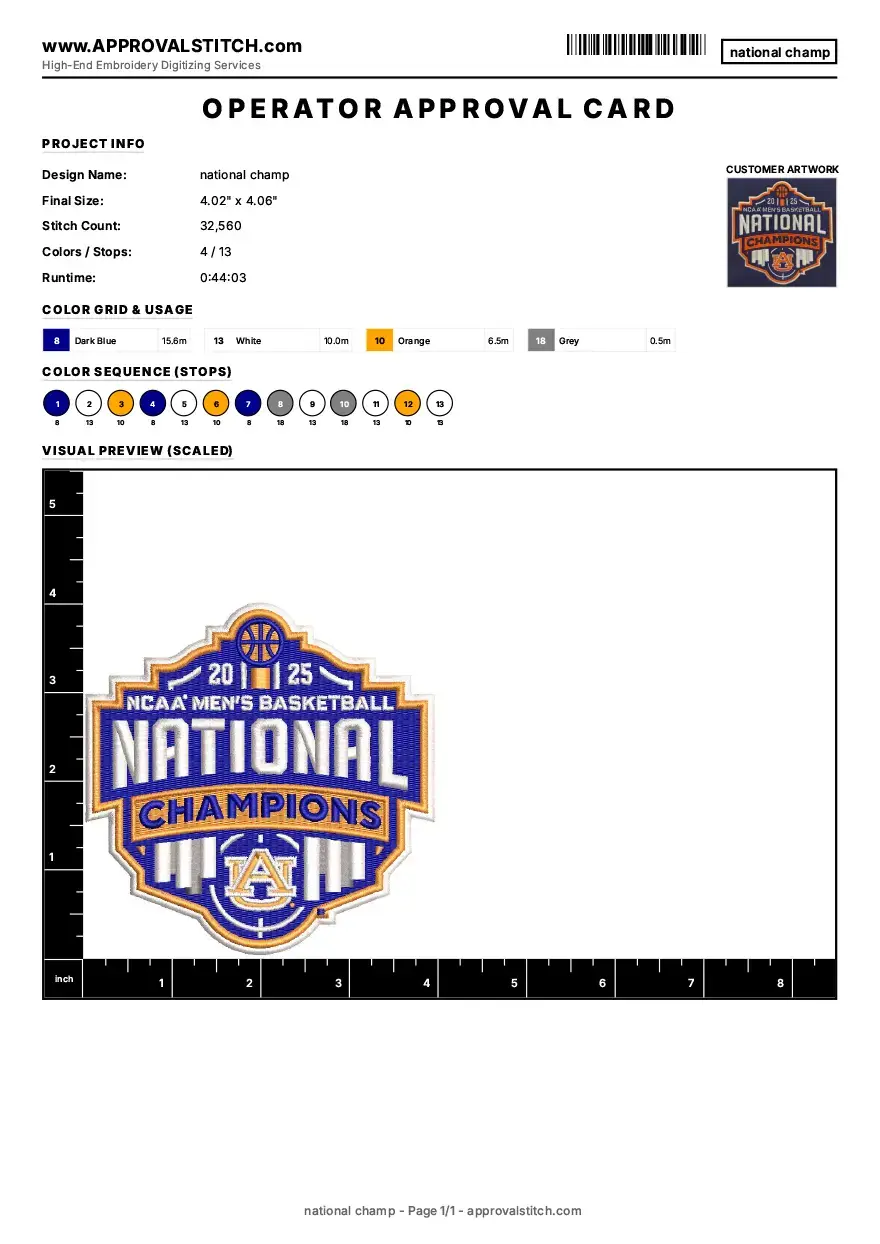
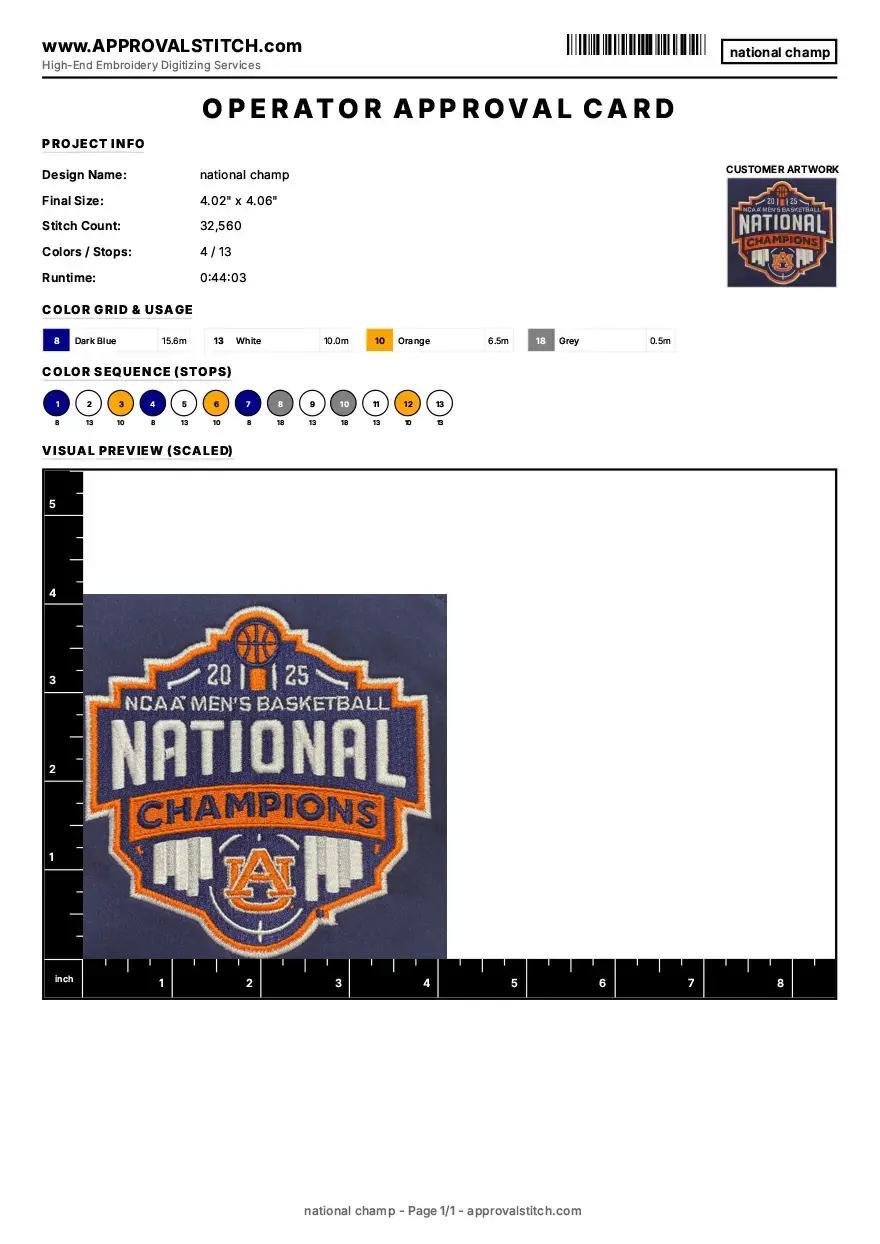
Fix Wilcom image extraction: select image with most content instead of largest

Changed region(s): [[0.092, 0.4582, 0.5216, 0.7942]]

diff --git a/src/lib/wilcom-parser.ts b/src/lib/wilcom-parser.ts
@@ -1477,37 +1477,57 @@ results = {}
 # 1. Extract design from Wilcom PDF
 try:
     doc = fitz.open(wilcom_pdf)
-    largest_image = None
-    largest_size = 0
+    best_image = None
+    best_score = 0
     
-    # 1a. Try to find embedded images first (highest quality)
+    # 1a. Try to find embedded images - pick the one with most actual content
+    # Wilcom PDFs often embed large blank placeholder images alongside the design
     for page in doc:
         for img_info in page.get_images():
             xref = img_info[0]
             try:
                 pix = fitz.Pixmap(doc, xref)
                 if pix.n >= 5: pix = fitz.Pixmap(fitz.csRGB, pix)
-                if pix.width * pix.height > largest_size:
-                    largest_size = pix.width * pix.height
-                    largest_image = pix
+                
+                # Skip very small images (icons, logos etc)
+                total_pixels = pix.width * pix.height
+                if total_pixels < 10000:
+                    continue
+                
+                # Count non-white pixels to determine actual content
+                samples = pix.samples
+                non_white = 0
+                step = max(1, len(samples) // (50000 * pix.n))  # Sample for speed
+                for k in range(0, len(samples), pix.n * step):
+                    if k + 2 < len(samples):
+                        if samples[k] < 250 or samples[k+1] < 250 or samples[k+2] < 250:
+                            non_white += 1
+                
+                # Score = non-white ratio * total size (prefer large images WITH content)
+                content_ratio = non_white / max(1, total_pixels // step)
+                
+                # Skip images that are >99% white (blank placeholders)
+                if content_ratio < 0.005:
+                    continue
+                
+                score = content_ratio * total_pixels
+                if score > best_score:
+                    best_score = score
+                    best_image = pix
             except: continue
             
-    if largest_image:
-        results['design'] = process_and_trim(largest_image.tobytes("png"))
+    if best_image:
+        results['design'] = process_and_trim(best_image.tobytes("png"))
     else:
-        # 1b. Fallback: No embedded images found, try to render vector paths
-        # This is common in some Wilcom export settings
+        # 1b. Fallback: No usable embedded images, try to render vector paths
         page = doc[0]
         paths = page.get_drawings()
         
-        # If there are many paths, it's likely a design
         if len(paths) > 20: 
-            # Filter out very large paths that might be page borders
             design_rects = []
             page_rect = page.rect
             for p in paths:
                 r = p["rect"]
-                # Skip paths that are almost as large as the page (likely borders/backgrounds)
                 if r.width < page_rect.width * 0.95 or r.height < page_rect.height * 0.95:
                     design_rects.append(r)
             
@@ -1516,21 +1536,17 @@ try:
                 for r in design_rects[1:]:
                     union_rect |= r
                 
-                # Add a small margin
                 union_rect.x0 -= 5
                 union_rect.y0 -= 5
                 union_rect.x1 += 5
                 union_rect.y1 += 5
                 
-                # Render only the design area
                 pix = page.get_pixmap(matrix=fitz.Matrix(3, 3), clip=union_rect)
                 results['design'] = process_and_trim(pix.tobytes("png"))
             else:
-                # Last resort: just render the whole first page
                 pix = page.get_pixmap(matrix=fitz.Matrix(2, 2))
                 results['design'] = process_and_trim(pix.tobytes("png"))
         else:
-            # Render first page if not enough paths found
             pix = page.get_pixmap(matrix=fitz.Matrix(2, 2))
             results['design'] = process_and_trim(pix.tobytes("png"))
             

diff --git a/src/components/dashboard/notification-bell.tsx b/src/components/dashboard/notification-bell.tsx
@@ -48,6 +48,8 @@ export function NotificationBell() {
     const [loading, setLoading] = useState(true);
     const prevUnreadCountRef = useRef<number>(0);
     const isInitialLoad = useRef(true);
+    const isFetchingRef = useRef(false);
+    const pollIntervalRef = useRef<ReturnType<typeof setInterval> | null>(null);
 
     const getBilingualText = useCallback((text: string) => {
         if (!text.includes(" | ")) return text;
@@ -56,8 +58,15 @@ export function NotificationBell() {
     }, [language]);
 
     const fetchNotifications = useCallback(async () => {
+        if (isFetchingRef.current) return;
+        if (typeof document !== "undefined" && document.hidden) return;
+
+        isFetchingRef.current = true;
         try {
-            const res = await fetch("/api/notifications");
+            const controller = new AbortController();
+            const timeoutId = setTimeout(() => controller.abort(), 8000);
+            const res = await fetch("/api/notifications", { signal: controller.signal });
+            clearTimeout(timeoutId);
             if (res.ok) {
                 const data = await res.json();
                 const newUnreadCount = data.unreadCount;
@@ -99,17 +108,32 @@ export function NotificationBell() {
                 setUnreadCount(newUnreadCount);
             }
         } catch (error) {
-            console.error("Failed to fetch notifications:", error);
+            // Keep this silent in production-like environments to reduce noisy console logs on transient network issues.
+            if (process.env.NODE_ENV === "development") {
+                console.error("Failed to fetch notifications:", error);
+            }
         } finally {
             setLoading(false);
+            isFetchingRef.current = false;
         }
     }, [language]);
 
     useEffect(() => {
         fetchNotifications();
-        // Refresh every 30 seconds for better real-time experience
-        const interval = setInterval(fetchNotifications, 30000);
-        return () => clearInterval(interval);
+        // Poll less aggressively to reduce API pressure and timeout cascades.
+        pollIntervalRef.current = setInterval(fetchNotifications, 120000);
+
+        const onVisibilityChange = () => {
+            if (!document.hidden) {
+                fetchNotifications();
+            }
+        };
+
+        document.addEventListener("visibilitychange", onVisibilityChange);
+        return () => {
+            if (pollIntervalRef.current) clearInterval(pollIntervalRef.current);
+            document.removeEventListener("visibilitychange", onVisibilityChange);
+        };
     }, [fetchNotifications]);
 
     const markAsRead = async (id: string) => {
